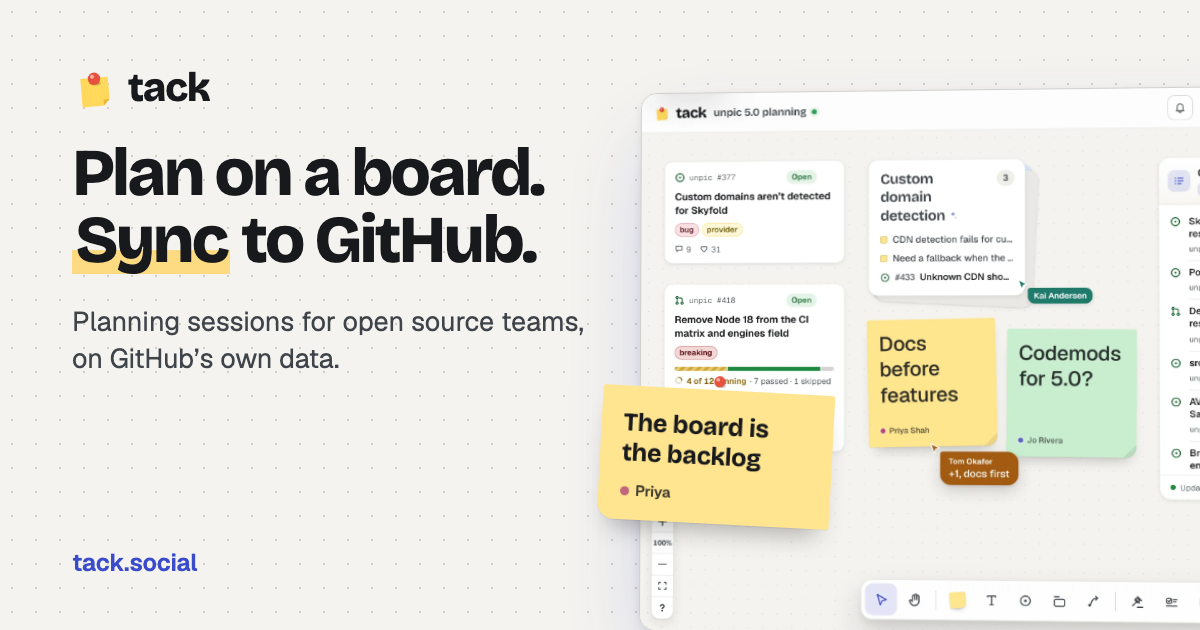
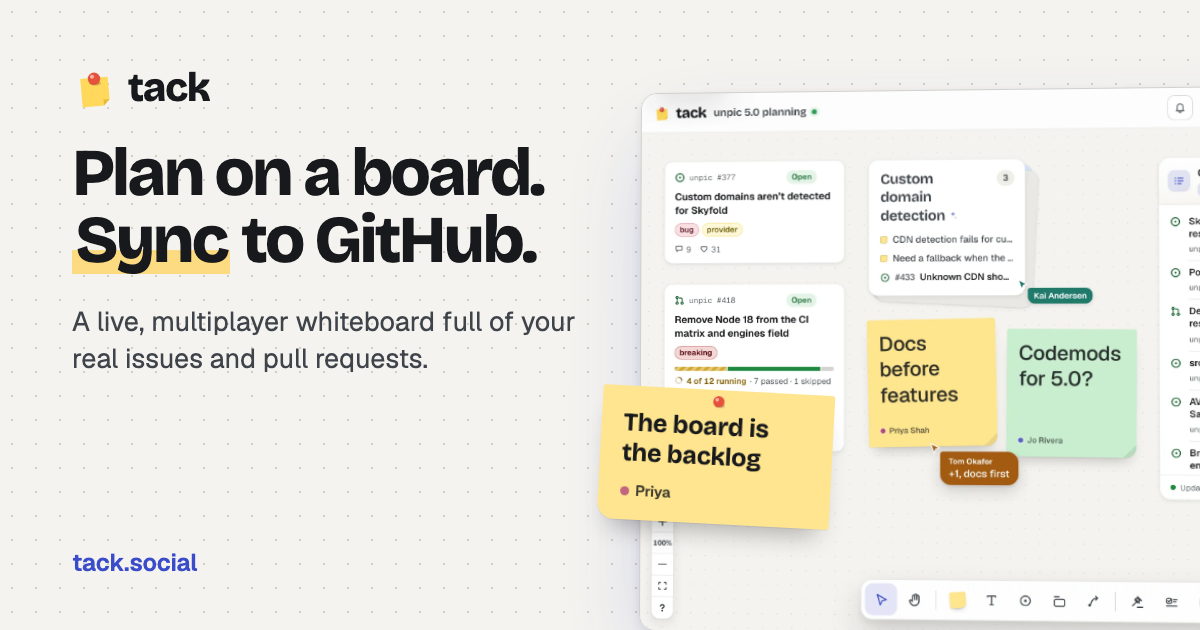
feat(site): the repository's social preview, drawn with the site's, and both say what Tack is now

Changed region(s): [[0.0617, 0.4825, 0.4933, 0.6032], [0.5858, 0.6032, 0.6167, 0.6635]]

diff --git a/site/scripts/og.ts b/site/scripts/og.ts
@@ -1,6 +1,8 @@
-// The site's link preview image, public/og.png: 1200 × 630, drawn in a
-// browser from the landing page's words, its sticky (src/hero.ts) and its
-// board's screenshot.
+// The link preview images, drawn in a browser from the landing page's words,
+// its sticky (src/hero.ts) and its board's screenshot: the site's,
+// public/og.png (1200 × 630), and the repository's social preview,
+// .github/social-preview.png (1280 × 640, GitHub's size; set it by hand in
+// the repository's Settings → General → Social preview).
 //
 //   pnpm --filter site og
 //
@@ -12,7 +14,15 @@ import path from "node:path";
 import { HERO_STICKY } from "../src/hero.ts";
 
 const root = path.resolve(import.meta.dirname, "..");
-const out = path.join(root, "public/og.png");
+const IMAGES = [
+	{ out: path.join(root, "public/og.png"), width: 1200, height: 630, foot: "tack.social" },
+	{
+		out: path.join(root, "../.github/social-preview.png"),
+		width: 1280,
+		height: 640,
+		foot: "Free · Open source · Self-hosted · tack.social",
+	},
+];
 // Fonts and the board go in as data, since the page has no address to load them from.
 const font = async (pkg: string, file: string) =>
 	`data:font/woff2;base64,${(
@@ -22,7 +32,11 @@ const display = await font("bricolage-grotesque", "bricolage-grotesque-latin-wgh
 const ui = await font("geist", "geist-latin-wght-normal.woff2");
 const board = await readFile(path.join(root, "src/assets/screenshots/hero-light.webp"));
 
-const html = `<!doctype html>
+const page = ({ width, height, foot }: (typeof IMAGES)[number]) => {
+	// Wider than the site's: the same picture, given the extra room evenly.
+	const dx = (width - 1200) / 2;
+	const dy = (height - 630) / 2;
+	return `<!doctype html>
 <html>
 <head>
 <meta charset="utf-8" />
@@ -38,7 +52,7 @@ const html = `<!doctype html>
 		font-weight: 100 900;
 	}
 	* { box-sizing: border-box; margin: 0; }
-	html, body { width: 1200px; height: 630px; overflow: hidden; }
+	html, body { width: ${width}px; height: ${height}px; overflow: hidden; }
 	body {
 		position: relative;
 		background:
@@ -49,8 +63,8 @@ const html = `<!doctype html>
 	}
 	.copy {
 		position: absolute;
-		left: 72px;
-		top: 64px;
+		left: ${72 + dx}px;
+		top: ${64 + dy}px;
 		width: 540px;
 		display: flex;
 		flex-direction: column;
@@ -83,16 +97,16 @@ const html = `<!doctype html>
 	}
 	.url {
 		position: absolute;
-		left: 72px;
-		bottom: 52px;
+		left: ${72 + dx}px;
+		bottom: ${52 + dy}px;
 		font-size: 24px;
 		font-weight: 600;
 		color: #3b4cca;
 	}
 	.board {
 		position: absolute;
-		left: 640px;
-		top: 92px;
+		left: ${640 + dx}px;
+		top: ${92 + dy}px;
 		width: 860px;
 		border-radius: 16px;
 		overflow: hidden;
@@ -104,8 +118,8 @@ const html = `<!doctype html>
 	.board img { display: block; width: 100%; }
 	.sticky {
 		position: absolute;
-		left: 600px;
-		top: 390px;
+		left: ${600 + dx}px;
+		top: ${390 + dy}px;
 		width: 232px;
 		padding: 22px 22px 20px;
 		border-radius: 3px 3px 3px 16px;
@@ -118,7 +132,8 @@ const html = `<!doctype html>
 		letter-spacing: -0.01em;
 		transform: rotate(3deg);
 	}
-	.sticky .pin { position: absolute; top: -20px; left: 50%; translate: -50% 0; }
+	/* The tack's head in the paper, as on the landing page's sticky. */
+	.sticky .pin { position: absolute; top: 0; left: 50%; translate: -50% 0; }
 	.sticky .pin svg { width: 40px; height: 40px; overflow: visible; }
 	.sticky .who {
 		margin-top: 14px;
@@ -138,16 +153,17 @@ const html = `<!doctype html>
 	<div class="copy">
 		<div class="brand">${mark(true)}<span class="wordmark">tack</span></div>
 		<h1>Plan on a board.<br /><em>Sync</em> to GitHub.</h1>
-		<p>Planning sessions for open source teams, on GitHub’s own data.</p>
+		<p>A live, multiplayer whiteboard full of your real issues and pull requests.</p>
 	</div>
 	<div class="sticky">
 		<span class="pin">${mark(false)}</span>
 		${HERO_STICKY}
 		<div class="who"><i></i>Priya</div>
 	</div>
-	<div class="url">tack.social</div>
+	<div class="url">${foot}</div>
 </body>
 </html>`;
+};
 
 /** The Tack mark (src/components/BrandMark.astro), or only its pin. */
 function mark(note: boolean): string {
@@ -167,9 +183,12 @@ function mark(note: boolean): string {
 }
 
 const browser = await chromium.launch();
-const page = await browser.newPage({ viewport: { width: 1200, height: 630 } });
-await page.setContent(html, { waitUntil: "load" });
-await page.evaluate(() => document.fonts.ready);
-await page.screenshot({ path: out });
+for (const image of IMAGES) {
+	const tab = await browser.newPage({ viewport: { width: image.width, height: image.height } });
+	await tab.setContent(page(image), { waitUntil: "load" });
+	await tab.evaluate(() => document.fonts.ready);
+	await tab.screenshot({ path: image.out });
+	await tab.close();
+	console.log(`Wrote ${path.relative(root, image.out)}`);
+}
 await browser.close();
-console.log(`Wrote ${path.relative(root, out)}`);
